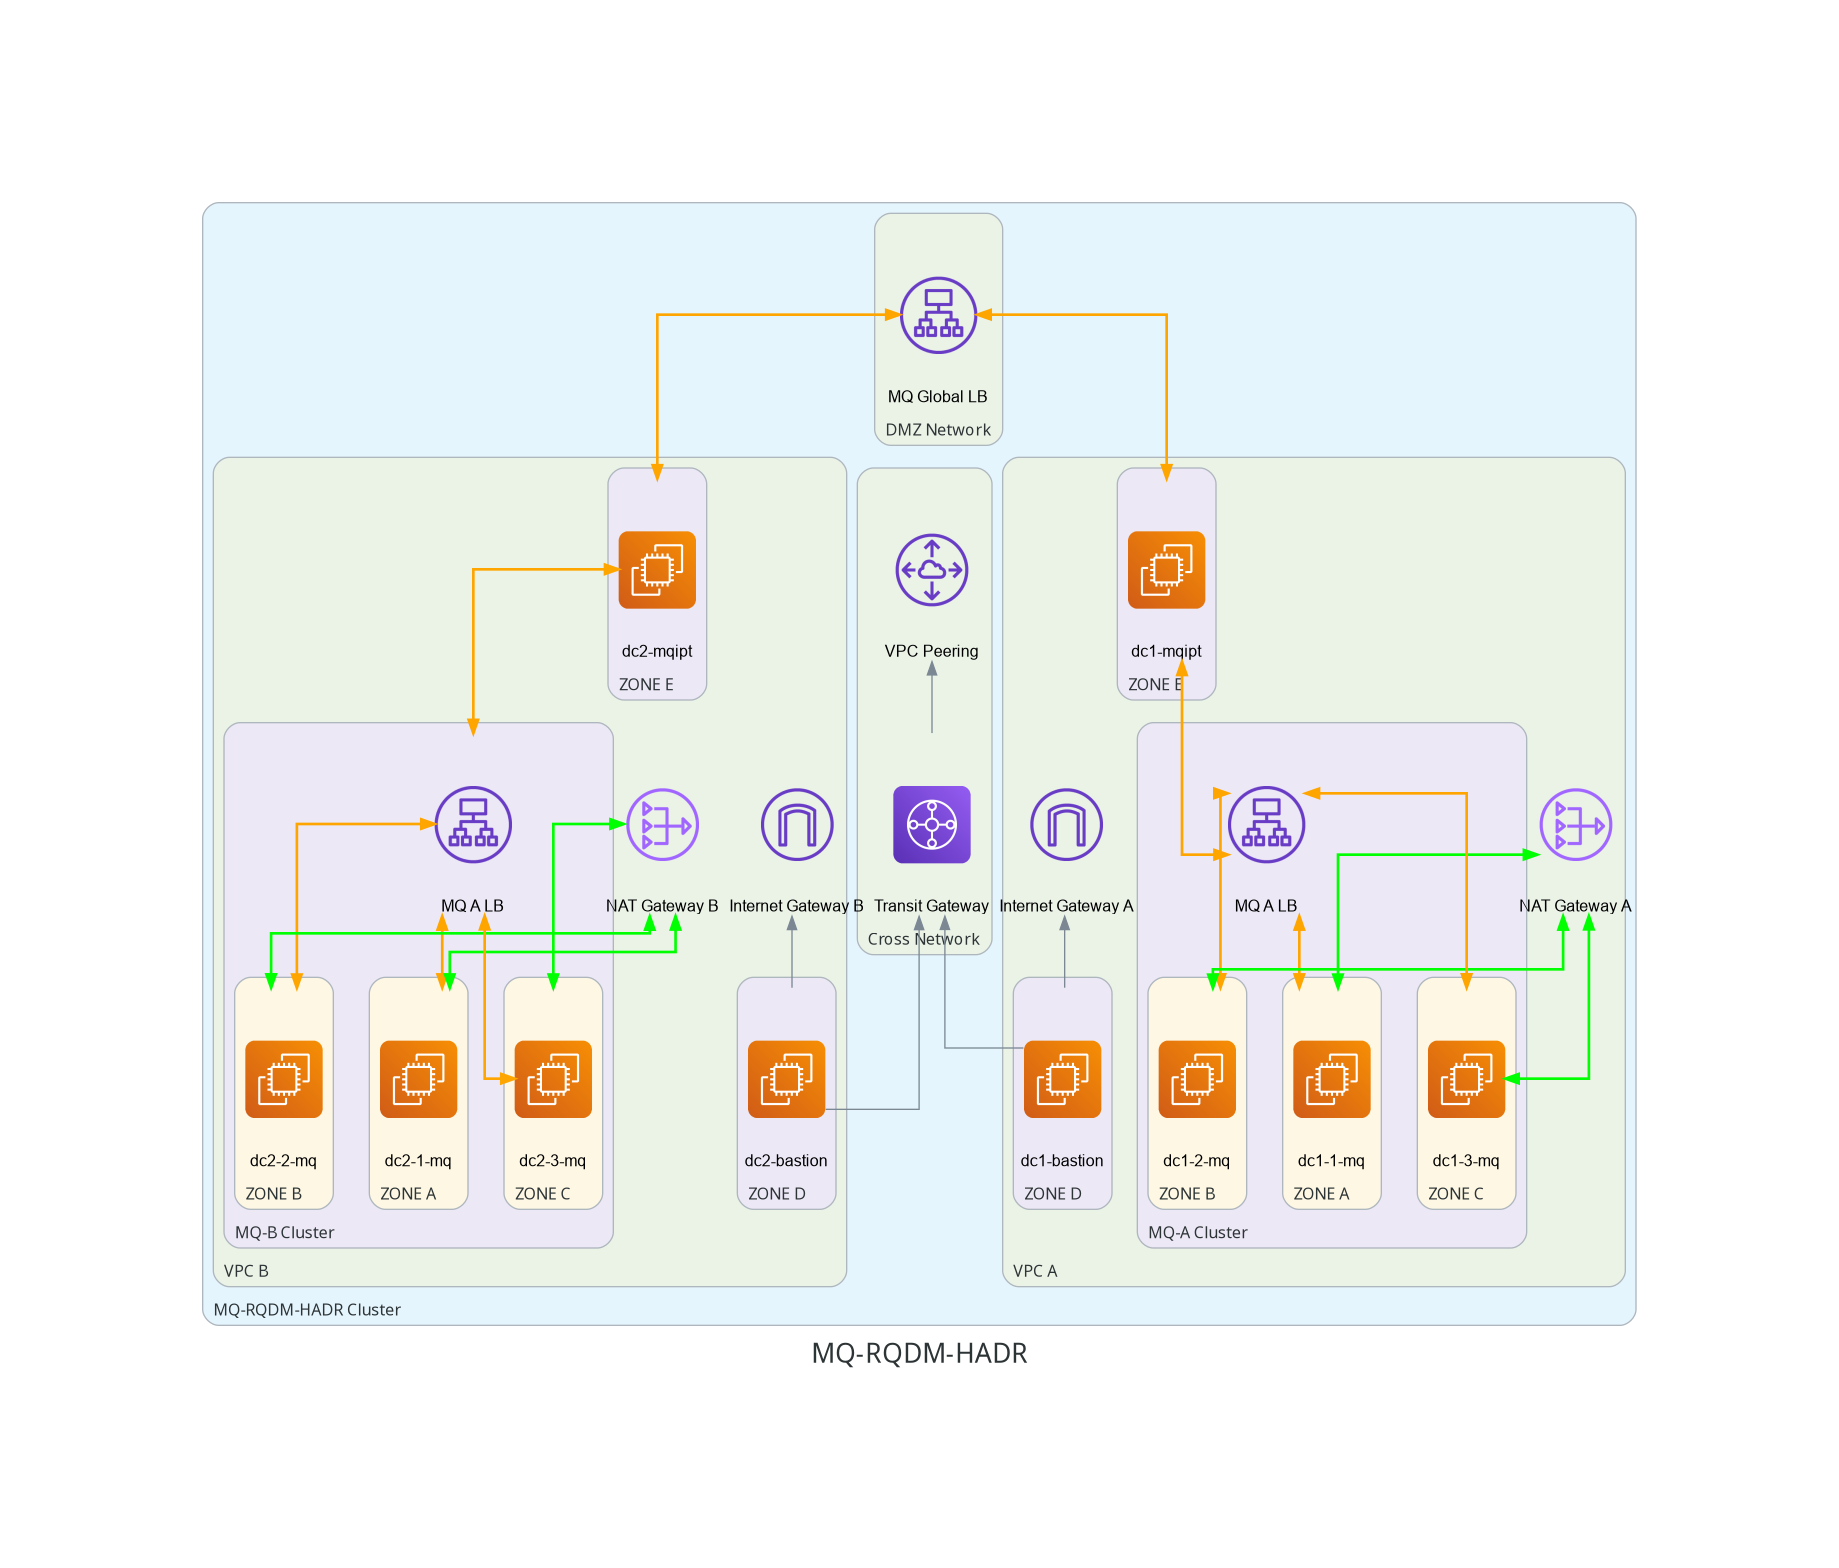
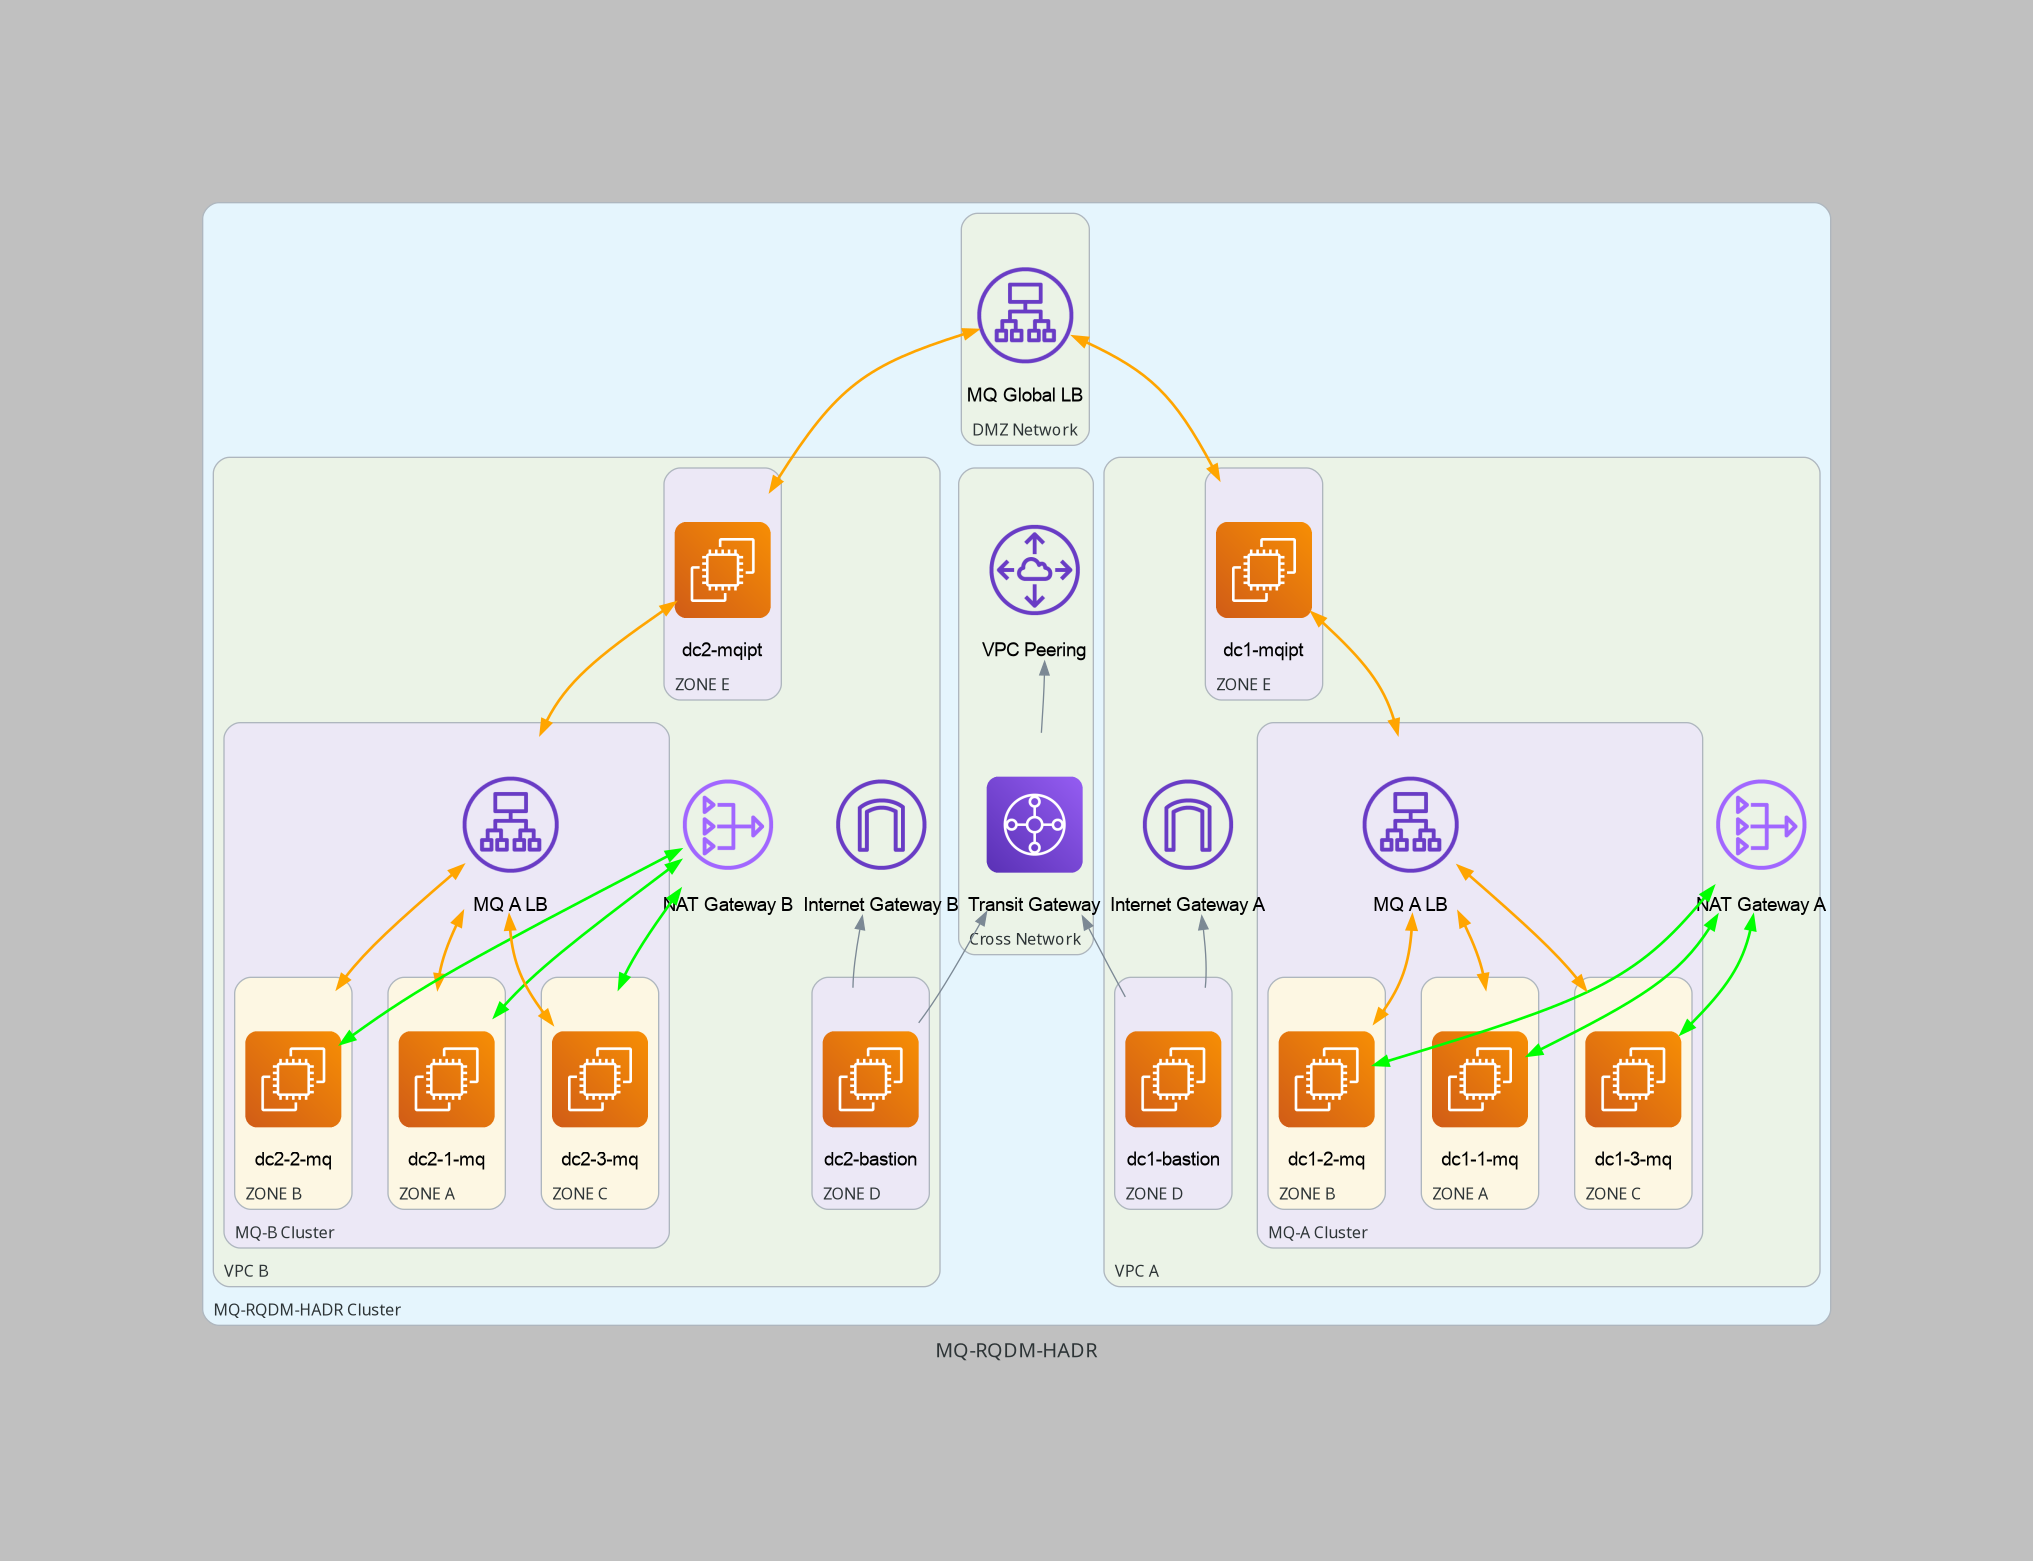
Image update

diff --git a/aws/diagram.py b/aws/diagram.py
@@ -20,27 +20,30 @@ from diagrams.aws.compute import EC2ElasticIpAddress as ENI
 
 
 graph_attr = {
-    "fontsize": "20",
-    "bgcolor": "transparent"
+    "fontsize": "15",
+    "bgcolor": "grey",
+#    "margin": ".5",
+        
 }
 node_attr={
-    "shape": "rectangle",
-    "style": "rounded",
-    "color": "black",
+#    "shape": "square",
+#    "style": "rounded",
+#    "color": "black",
     "fillcolor": "white",
     "fontcolor": "black",
-    "fontsize": "12",
+    "fontsize": "14",
     "fontname": "Helvetica",
-    "penwidth": "2",
-    "margin": "3",
-    "height": "1",
-    "width": ".8",
-    "fixedsize": "true"
-
+    "penwidth": "1",
+    "width": "1",
+    "fixedsize": "true",
+    "padding": "0",
+}
+edge_attr={
+    "margin": "1",
 }
 orange=Edge(color="ORANGE", style="bold")
 green=Edge(color="GREEN", style="bold")
-with Diagram("MQ-RQDM-HADR", show=False, direction="BT",graph_attr=graph_attr,node_attr=node_attr):
+with Diagram("MQ-RQDM-HADR", show=False,curvestyle="curved", direction="BT",graph_attr=graph_attr,node_attr=node_attr,edge_attr=edge_attr,):
     
 
 
